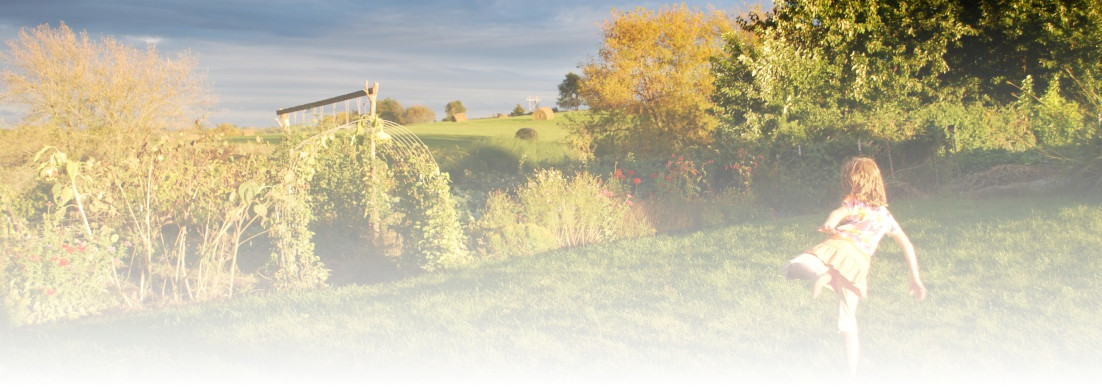
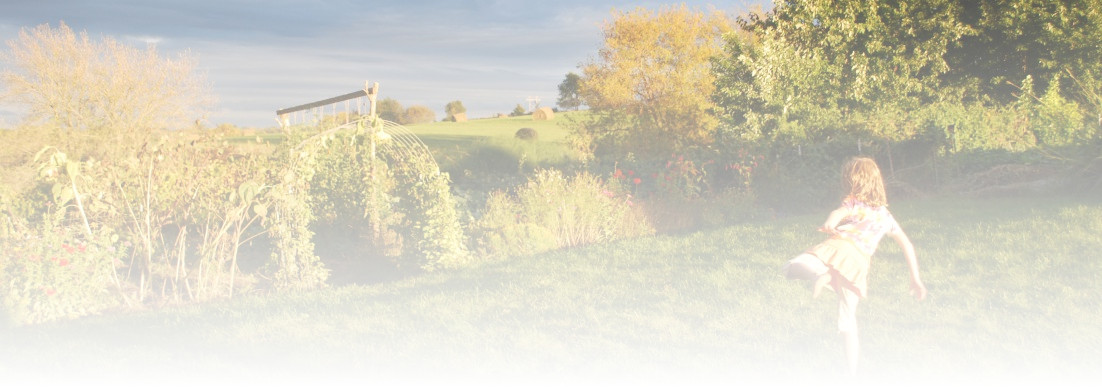
lighter background image

diff --git a/_scss/tufte.scss b/_scss/tufte.scss
@@ -96,13 +96,13 @@ body {
 }
 body > header{
   padding-top: 1rem;
-  border-bottom: 1px lighten($text-color,60%) solid;
+  border-bottom: 1px lighten($text-color,30%) solid;
   max-width: 90%;
   padding-bottom: 0.5rem;
   h1 { 
     text-align: center;
     font-size: 4.5rem;
-    font-weight: 600;
+    font-weight: 500;
   }
   h2 {
     text-align: center;
@@ -251,6 +251,7 @@ h3 {  font-style: italic;
       font-size: 1.8rem;
       margin-top: 1.2rem;
       margin-bottom: 0;
+      margin-left: 21%;
       line-height: 1.088888888889; }
 
 h4 {  font-style: italic;
@@ -258,6 +259,7 @@ h4 {  font-style: italic;
       font-size: 1.6rem;
       margin-top: 0.8rem;
       margin-bottom: 0;
+      margin-left: 21%;
       line-height: 1.225; }
 
 h5 {  font-style: italic;

diff --git a/css/tufte.css b/css/tufte.css
@@ -72,13 +72,13 @@ body {
     width: 95%; } }
 body > header {
   padding-top: 1rem;
-  border-bottom: 1px #aaaaaa solid;
+  border-bottom: 1px #5e5e5e solid;
   max-width: 90%;
   padding-bottom: 0.5rem; }
   body > header h1 {
     text-align: center;
     font-size: 4.5rem;
-    font-weight: 600; }
+    font-weight: 500; }
   body > header h2 {
     text-align: center;
     font-size: 1.8rem;
@@ -207,6 +207,7 @@ h3 {
   font-size: 1.8rem;
   margin-top: 1.2rem;
   margin-bottom: 0;
+  margin-left: 21%;
   line-height: 1.088888888889; }
 
 h4 {
@@ -215,6 +216,7 @@ h4 {
   font-size: 1.6rem;
   margin-top: 0.8rem;
   margin-bottom: 0;
+  margin-left: 21%;
   line-height: 1.225; }
 
 h5 {
